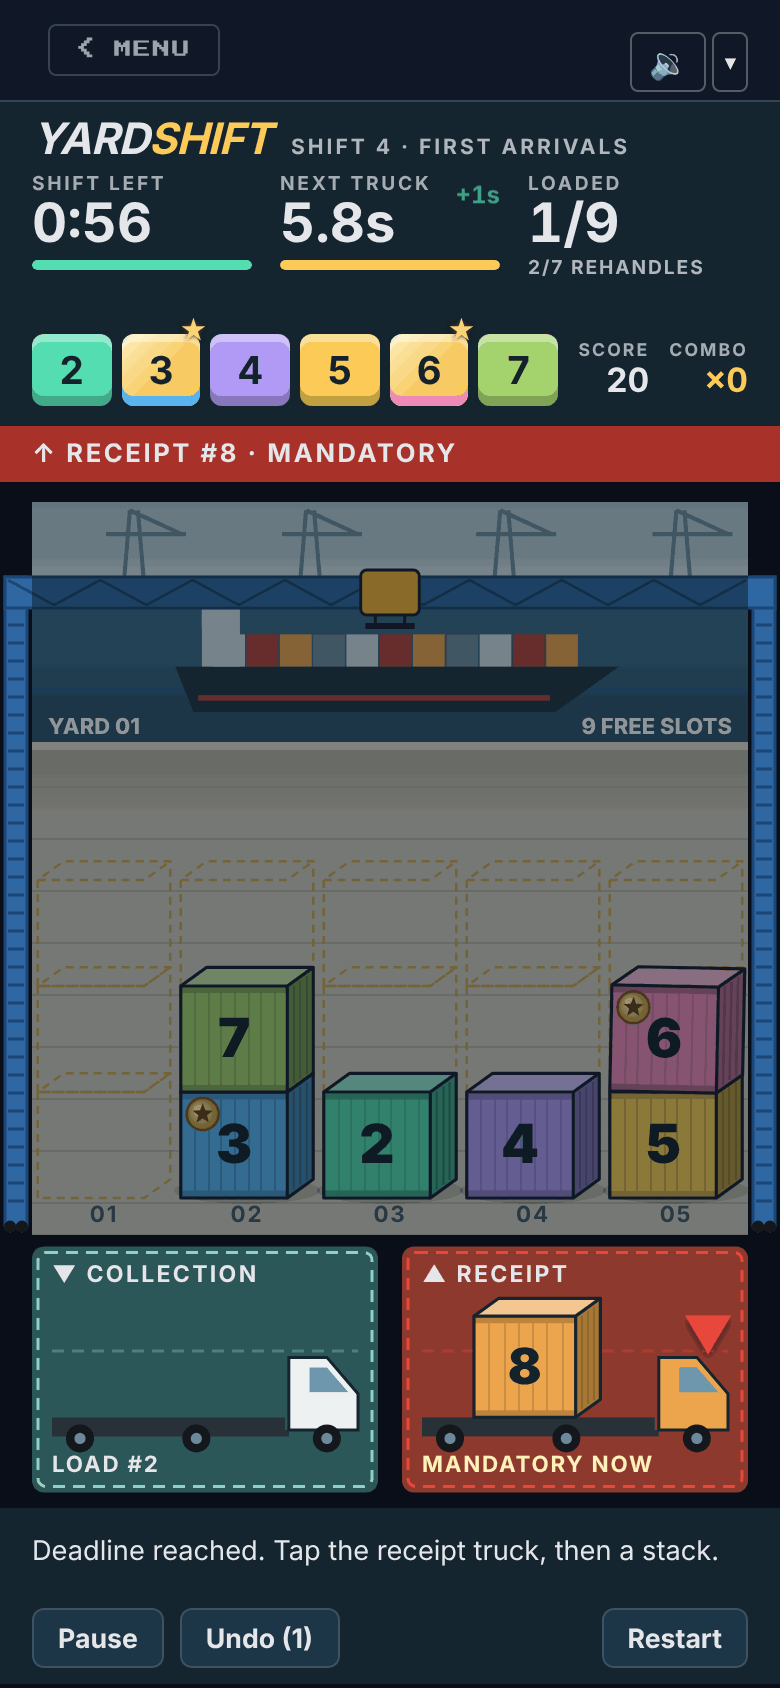
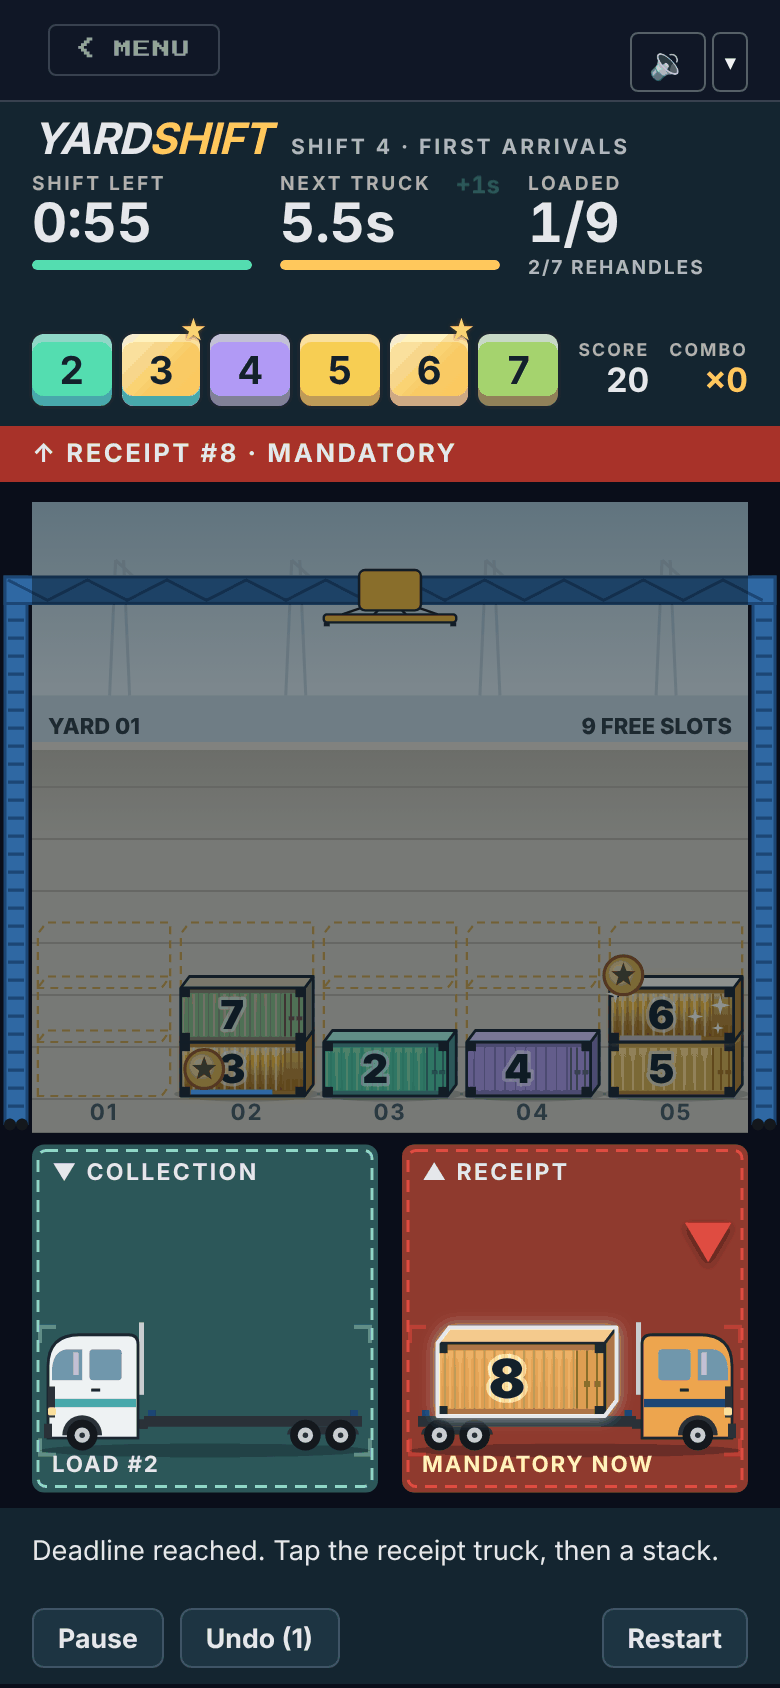
Yardshift art pass 2: bonus pop and +5s fly, combo pop, truck sizing, proof captures, cover and sim guide
Claude-Session: https://claude.ai/code/session_0155BNjwPfcnFQSyZNLHGLyJ

diff --git a/src/sims/yardshift/Yardshift.vue b/src/sims/yardshift/Yardshift.vue
@@ -246,14 +246,26 @@ onBeforeUnmount(() => {
         class="burst"
         data-testid="ys-bonus-burst"
         :style="{
-          left: `${view.layout.collection.x + view.layout.collection.w / 2}px`,
-          top: `${Math.max(0, view.layout.collection.y - 36)}px`,
+          left: `${view.layout.collection.x + view.layout.collection.w * 0.4}px`,
+          top: `${view.layout.collection.y + 30}px`,
         }"
       >
         <span class="ring" />
-        <span class="float">+250 · +5s</span>
+        <span class="float">+250</span>
       </div>
     </div>
+    <span
+      v-if="store.bonusPulse > 0"
+      :key="`t${store.bonusPulse}`"
+      class="fly-time"
+      aria-hidden="true"
+      :style="{
+        left: `${screen.surface.x + view.layout.collection.x + view.layout.collection.w * 0.82}px`,
+        top: `${screen.surface.y + view.layout.collection.y + 70}px`,
+        '--fly-x': `${screen.hud.x + 60 - (screen.surface.x + view.layout.collection.x + view.layout.collection.w * 0.82)}px`,
+        '--fly-y': `${screen.hud.y + 50 - (screen.surface.y + view.layout.collection.y + 70)}px`,
+      }"
+    >+5s</span>
     <footer
       class="hint band"
       :style="rectStyle(screen.hint)"
@@ -444,10 +456,62 @@ onBeforeUnmount(() => {
   left: 50%;
   transform: translateX(-50%);
   white-space: nowrap;
-  color: var(--ys-gold);
-  font-weight: 800;
-  text-shadow: 0 1px 2px var(--ys-ink);
-  animation: rise 1.2s ease-out forwards;
+  color: var(--ys-gold-bright);
+  font-size: 2rem;
+  font-weight: 900;
+  -webkit-text-stroke: 1px var(--ys-gold-deep);
+  text-shadow: 0 2px 0 var(--ys-gold-dark), 0 3px 6px var(--ys-ink);
+  animation: pop 1.1s cubic-bezier(0.2, 0.9, 0.3, 1.4) forwards;
+}
+/* "+250" pops in with an overshoot, holds, then floats up and fades. */
+@keyframes pop {
+  0% {
+    opacity: 0;
+    transform: translateX(-50%) scale(0.2);
+  }
+  25% {
+    opacity: 1;
+    transform: translateX(-50%) scale(1.35);
+  }
+  40% {
+    transform: translateX(-50%) scale(0.92);
+  }
+  55% {
+    opacity: 1;
+    transform: translateX(-50%) scale(1);
+  }
+  100% {
+    opacity: 0;
+    transform: translateX(-50%) translateY(-28px) scale(1);
+  }
+}
+/* "+5s" flies from the collection truck up to the shift clock. */
+.fly-time {
+  position: absolute;
+  z-index: 5;
+  pointer-events: none;
+  color: var(--ys-gold-bright);
+  font-size: 1.3rem;
+  font-weight: 900;
+  text-shadow: 0 2px 4px var(--ys-ink);
+  animation: fly 0.9s cubic-bezier(0.5, 0, 0.6, 1) 0.25s both;
+}
+@keyframes fly {
+  0% {
+    opacity: 0;
+    transform: translate(-50%, 0) scale(0.6);
+  }
+  15% {
+    opacity: 1;
+    transform: translate(-50%, -8px) scale(1.2);
+  }
+  85% {
+    opacity: 1;
+  }
+  100% {
+    opacity: 0;
+    transform: translate(calc(-50% + var(--fly-x)), var(--fly-y)) scale(0.8);
+  }
 }
 @keyframes burst {
   from {
@@ -475,7 +539,11 @@ onBeforeUnmount(() => {
     opacity: 0;
   }
   .burst .float {
+    transform: translateX(-50%);
     animation: fade 1.2s step-end forwards;
+  }
+  .fly-time {
+    display: none;
   }
   @keyframes fade {
     to {

diff --git a/src/sims/yardshift/modules/yardGeometry.ts b/src/sims/yardshift/modules/yardGeometry.ts
@@ -154,8 +154,8 @@ export function truckIn(bay: Rect, g: YardGeometry, facing: 'left' | 'right' = '
   const h = Math.max(12, bottom - top)
   const groundY = bottom - 1
   // The truck grows with a tall bay (art pass 2 gives the bays the yard's spare height), led by the cab.
-  const cabW = Math.max(20, Math.min(70, bay.w * 0.26, h * 0.45))
-  const cabH = Math.max(14, Math.min(h * 0.7, cabW * 1.15))
+  const cabW = Math.max(20, Math.min(70, bay.w * 0.26, h * 0.6))
+  const cabH = Math.max(14, Math.min(h * 0.85, cabW * 1.15))
   const wheelR = Math.max(3.5, Math.min(12, cabW * 0.17))
   const axleY = groundY - wheelR
   const beamH = Math.max(3, wheelR * 0.7)

diff --git a/src/sims/yardshift/components/ui/YardQueue.vue b/src/sims/yardshift/components/ui/YardQueue.vue
@@ -47,6 +47,7 @@ defineProps<{
       <div>
         <dt>COMBO</dt>
         <dd
+          :key="combo"
           class="combo"
           data-testid="ys-combo"
         >
@@ -154,6 +155,21 @@ dd {
 }
 dd.combo {
   color: var(--ys-gold);
+  /* A new combo value pops in (re-keyed on every change); reduced motion shows it still. */
+  animation: combo-pop 0.42s cubic-bezier(0.2, 0.9, 0.3, 1.5);
+}
+@keyframes combo-pop {
+  from {
+    transform: scale(1.7);
+  }
+  to {
+    transform: scale(1);
+  }
+}
+@media (prefers-reduced-motion: reduce) {
+  dd.combo {
+    animation: none;
+  }
 }
 .bonus {
   position: absolute;

diff --git a/src/sims/yardshift/yardshift-AGENTS.md b/src/sims/yardshift/yardshift-AGENTS.md
@@ -44,34 +44,60 @@ and crane frames, and a backing store scaled by `devicePixelRatio` (capped at 3)
 
 - `modules/yardGeometry.ts` (pure) places every shape from `layoutFor`'s layout and the capacity: the harbour
   backdrop (a band of `BACKDROP`, a quarter of the play surface as in the target, at most 45 % of the yard, with
-  the gantry beam across it at 30 % of its height), the concrete floor, the ground line, the container size (front
-  0.74 of the column, side face 0.18, top rise 0.13, so a box is about a fifth of a phone canvas wide; height from
-  the floor at full capacity plus the selection lift, at most square, so a full stack nearly reaches the band), the
-  gantry (legs in the 16 px side margins, outside every column), the crane
-  carry height and each bay's truck (`truckIn`: cab at the bay's right end under `arrowBox`, flatbed at most 4.2
-  cabs long, cargo sized like a yard box where the bed allows). `boxAt(geo, layout, stack, tier, lift)` is a
-  container's oblique box; `boxBounds` its whole drawn area. `modules/yardGeometry.test.ts` proves, for every level
-  and five surfaces, that every slot (the top one lifted too) lies inside its own column hit region and under the
-  beam, the legs touch no column, trucks lie inside their bays and the arrow sits over the cab, clear of the cargo.
-- `composables/useYardCanvas.ts` only paints: backdrop (sky, water, distant STS cranes, a loaded ship, quay edge),
-  floor, dashed slot outlines up to capacity, "YARD 01" and "n FREE SLOT(S)" captions, the two bays (dashed border,
-  teal collection with a white cab, orange receipt with an orange cab, red at deadline 0), containers (front face
-  with the big dark number, lighter top, darker side, ribs, outline, gold star medallion for `bonus`, "H" tile for
-  `heavy`), ghost drop boxes on `destinations`, the blue gantry and the yellow trolley. Selection lifts the box
-  `LIFT` (0.3 of its height) with a white rim; `urgent` (reduced motion) draws a red rim; `shake` offsets the box
-  (0.65 + 3.35 x risk px); `glint` rocks it and flashes the body. The crane move (`cranePhase`, 330 to 460 ms)
-  slides the trolley to the source, lowers, lifts, travels, lowers and releases; the trolley rests where the last
-  move ended.
+  the gantry beam across it at 30 % of its height), the concrete floor, the ground line, the container size (art
+  pass 2: side-on 20 ft boxes, side 0.86 of the column, door end 0.06, top rise 0.08; height the side length over
+  `ASPECT` 2.25, kept within `ASPECT_MIN` 2.1 to `ASPECT_MAX` 2.4: a short room narrows the box instead of
+  flattening it), the gantry (legs in the 16 px side margins, outside every column), the crane carry height and each
+  bay's truck (`truckIn(bay, geo, facing)`: tractor cab at the end it faces, the receipt truck facing right with its
+  cab under `arrowBox`, the collection truck facing left; skeletal trailer at most 4.2 cabs long, three axles, cab
+  sized from the bay, cargo a yard box scaled up to `MAX_CARGO_SCALE` 1.35). `yardHeightFor(colW, surfaceH,
+  capacity)` is the yard height full stacks need: with the capacity (`present` passes it), `layoutFor` gives a yard
+  taller than that need its spare height to the bays, up to `MAX_BAY_SHARE` (34 %) of the surface, so the short
+  boxes leave less bare concrete. Hit regions still come from the layout only. `boxAt(geo, layout, stack, tier,
+  lift)` is a container's box; `boxBounds` its whole drawn area. `modules/yardGeometry.test.ts` proves, for every
+  level and five surfaces, that every slot (the top one lifted too) lies inside its own column hit region and under
+  the beam, the box aspect stays 2.1 to 2.4, full stacks fill at least 45 % of a phone yard (capacity 3 or more), the
+  legs touch no column, each truck (both facings) lies inside its bay with its cab ahead of the trailer and its
+  wheels on the road, the cargo sits on the trailer, and the arrow sits over the receipt cab, clear of the cargo.
+- `modules/yardEffects.ts` (pure, `yardEffects.test.ts`): every render-only effect as a function of time.
+  `urgencyStyle(container, current, reducedMotion)`: the current container on a calm turn (risk at `FOCUS_BASE_RISK`)
+  glows with a breathing white outline; once the next-truck clock is low it vibrates (`vibrateX`: horizontal only,
+  1 to 2 px at `VIBRATE_HZ` 27 Hz, never a rotation) with a pulsing red outline; in the last 9 s of the shift every
+  container vibrates with rising amplitude; under reduced motion nothing moves and the `urgent` flag gives a static
+  red outline. Effects in flight (`Fx`, durations `FX_MS`): `land` (squash about the bottom centre plus a dust puff,
+  after each crane move onto a stack), `collect` (the collection truck bounces, drives off left with the box and
+  comes back empty, clipped to its bay), `bonus` (gold flash over the collection bay and a coin and star `burst`),
+  `bonus-miss` (the gold fades to the box's own colour with a poof), `reject` (a refused move shakes the tapped
+  container sideways in red, `rejectX`). `sparkles` and `shineAt` drive the gold shine.
+- `composables/useYardCanvas.ts` only paints: a quiet backdrop (sky, a hazy horizon, faint distant STS crane
+  silhouettes at 28 % alpha, the quay edge; no ship), floor, dashed slot outlines up to capacity, "YARD 01" and "n
+  FREE SLOT(S)" captions, the two bays (dashed border, painted stall corner marks so an empty bay still reads as one,
+  teal collection, orange receipt, red at deadline 0), illustrated trucks (rounded cab roof, windscreen and side
+  window, livery stripe, grille, headlight, bumper, exhaust stack, mudguards, tyres with light hubs, skeletal
+  trailer with twist-lock posts, soft road shadow; white cab facing left for collection, orange cab facing right for
+  receipt, none in the receipt bay with no truck), containers (corrugated ribs, top and bottom rails, door end with
+  locking bars and handles, four corner castings, thin top face, big dark number with a light halo; a bonus box is
+  metallic gold with its sequence colour along the bottom rail, a gold glow, and a star badge over its top-left corner
+  when exposed, inside its side when buried; an exposed one also gets a shine sweep every 1.6 s, sparkles and a
+  bouncing badge, and the open bonus window adds a countdown ring round the badge, a brighter halo and faster
+  sparkles; "H" tile for `heavy`), ghost drop boxes on `destinations`, the blue gantry and the yellow trolley with
+  hoist cables and a spreader as long as a box whose twist-lock legs drop when it grips. Selection lifts the box
+  `LIFT` (0.3 of its height) with a white rim. The crane move (`cranePhase`, 330 to 460 ms) slides the trolley to the
+  source, lowers, lifts, travels, lowers and releases; the trolley rests where the last move ended.
 - It renders on a change of the view-model or the crane move (the store's frame loop drives both while playing) and
-  schedules its own frames only while a container shakes or glints.
+  schedules its own frames only while something animates (vibration, glow, gold shine, an effect in flight). Its
+  options: `reducedMotion` (no effects, static cues) and `subscribe` (the store's `onYardEvent`: every engine event
+  plus `{ type: 'rejected', action }` for a refused move).
 - DOM over the canvas (`Yardshift.vue`): stack numbers, bay titles, "LOAD #n" and the receipt status
   (`ys-receipt-status`) at the bay's bottom-left, the dim overlay (`ys-dim`), the bobbing arrow (`ys-arrow`), the
-  arrival announcement (36 px down, clear of the beam) and the "+250 · +5s" burst.
+  arrival announcement (36 px down, clear of the beam), the bonus "+250" pop (overshoot scale bounce, then float) in
+  the collection bay and the "+5s" (`fly-time`, outside the surface) flying from the truck to the shift clock; the
+  combo number pops when it changes (`YardQueue.vue`, re-keyed). Reduced motion: no fly, no pop.
 - HUD in the target's style: wordmark and uppercase level title, big shift and next-truck numbers with bars, LOADED
   with "n/max REHANDLES" under it; queue chips with a top lip and lower rail (gold for a bonus, its sequence colour
   kept as the rail). Band heights: `bandHeights` (HUD 108 px narrow, 74 wide; queue 54; incoming 28).
-- Screenshots: `docs/prototypes/2d/` (phone 390x844 at 2x: level 4 optional and mandatory, level 2 bonus window,
-  tutorial with a selection; desktop 1280x800).
+- Screenshots: `docs/prototypes/2d/` (art pass 2, phone 390x844 at 2x: level 3 start, level 2 bonus window open and
+  bonus collect mid-burst, level 4 mandatory receipt; desktop 1280x800 level 4).
 
 ## Playtest fixes (spec #374 phase 1)
 
@@ -308,7 +334,7 @@ coordinates so smoke tests tap real points.
   `modules/presentationScore.test.ts`, `modules/inputCoaching.test.ts`, `modules/undo.test.ts`,
   `modules/progress.test.ts`, `modules/screens.test.ts`, `modules/audioCues.test.ts`, `store/yardshiftStoreAudio.test.ts`,
   `modules/music.test.ts`, `composables/useYardMusic.test.ts` (happy-dom), `composables/useYardAudio.test.ts`,
-  `modules/palette.test.ts`, `modules/yardGeometry.test.ts`,
+  `modules/palette.test.ts`, `modules/yardGeometry.test.ts`, `modules/yardEffects.test.ts`,
   `modules/solver.test.ts` (every fixture replayed through the engine, and the solver
   re-proving every level), `modules/stars.test.ts`. The whole suite runs in about 2.1 s wall time (#391) through
   `pnpm test:sim yardshift` (#389); no test over 15 ms.
